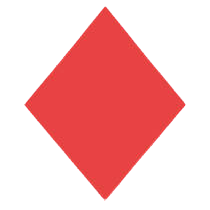
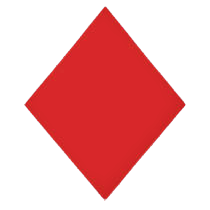
Some more UI changes

diff --git a/Pages/PageGame.xaml b/Pages/PageGame.xaml
@@ -68,7 +68,7 @@
         <Label Name="lblP3Betting3" Foreground="Black"   Width="150" HorizontalContentAlignment="Center" Canvas.Left="428" Canvas.Top="140" FontFamily="Arial" FontWeight="Bold" FontSize="50" Visibility="Hidden">7</Label>
         <Label Name="lblP3Betting2" Foreground="Black"   Width="150" HorizontalContentAlignment="Center" Canvas.Left="428" Canvas.Top="142" FontFamily="Arial" FontWeight="Bold" FontSize="50" Visibility="Hidden">7</Label>
         <Label Name="lblP3Betting1" Foreground="#33BCFF" Width="150" HorizontalContentAlignment="Center" Canvas.Left="427" Canvas.Top="141" FontFamily="Arial" FontWeight="Bold" FontSize="50" Visibility="Hidden">7</Label>
-                                                                                                                                                                                                 
+
         <Label Name="lblP4Betting5" Foreground="Black"   Width="150" HorizontalContentAlignment="Center" Canvas.Left="182" Canvas.Top="280" FontFamily="Arial" FontWeight="Bold" FontSize="50" Visibility="Hidden">7</Label>
         <Label Name="lblP4Betting4" Foreground="Black"   Width="150" HorizontalContentAlignment="Center" Canvas.Left="182" Canvas.Top="282" FontFamily="Arial" FontWeight="Bold" FontSize="50" Visibility="Hidden">7</Label>
         <Label Name="lblP4Betting3" Foreground="Black"   Width="150" HorizontalContentAlignment="Center" Canvas.Left="184" Canvas.Top="280" FontFamily="Arial" FontWeight="Bold" FontSize="50" Visibility="Hidden">7</Label>
@@ -93,14 +93,18 @@
         <Button Name="btnPass"   FontFamily="Arial" FontWeight="Bold" FontSize="50" Canvas.Left="560" Canvas.Top="364" Width="165" Height="70" Click="BtnPassClick">Pass</Button>
 
         <!-- Tarneeb Suit Label -->
-        <Label Foreground="Black"   Canvas.Left="32" Canvas.Top="58" FontFamily="Arial" FontWeight="Bold" FontSize="20" >Tarneeb</Label>
-        <Label Foreground="Black"   Canvas.Left="32" Canvas.Top="60" FontFamily="Arial" FontWeight="Bold" FontSize="20" >Tarneeb</Label>
-        <Label Foreground="Black"   Canvas.Left="34" Canvas.Top="58" FontFamily="Arial" FontWeight="Bold" FontSize="20" >Tarneeb</Label>
-        <Label Foreground="Black"   Canvas.Left="34" Canvas.Top="60" FontFamily="Arial" FontWeight="Bold" FontSize="20" >Tarneeb</Label>
-        <Label Foreground="#e8c133" Canvas.Left="33" Canvas.Top="59" FontFamily="Arial" FontWeight="Bold" FontSize="20" >Tarneeb</Label>
+        <Label Foreground="Black"   Canvas.Left="170" Canvas.Top="7" FontFamily="Arial" FontWeight="Bold" FontSize="16" >TARNEEB</Label>
+        <Label Foreground="Black"   Canvas.Left="170" Canvas.Top="9" FontFamily="Arial" FontWeight="Bold" FontSize="16" >TARNEEB</Label>
+        <Label Foreground="Black"   Canvas.Left="172" Canvas.Top="7" FontFamily="Arial" FontWeight="Bold" FontSize="16" >TARNEEB</Label>
+        <Label Foreground="Black"   Canvas.Left="172" Canvas.Top="9" FontFamily="Arial" FontWeight="Bold" FontSize="16" >TARNEEB</Label>
+        <Label Foreground="#e8c133" Canvas.Left="171" Canvas.Top="8" FontFamily="Arial" FontWeight="Bold" FontSize="16" >TARNEEB</Label>
 
         <!-- Tarneeb Suit Image -->
-        <Image Name="tarneebImage" Source="/Images/EmptyCard.png" Canvas.Left="50" Canvas.Top="97" Height="50" RenderOptions.BitmapScalingMode="HighQuality"/>
+        <Image Name="tarneebImage5" Source="/Images/EmptyCard.png" Canvas.Left="190" Canvas.Top="42" Height="50" RenderOptions.BitmapScalingMode="HighQuality"/>
+        <Image Name="tarneebImage4" Source="/Images/EmptyCard.png" Canvas.Left="190" Canvas.Top="40" Height="50" RenderOptions.BitmapScalingMode="HighQuality"/>
+        <Image Name="tarneebImage3" Source="/Images/EmptyCard.png" Canvas.Left="192" Canvas.Top="42" Height="50" RenderOptions.BitmapScalingMode="HighQuality"/>
+        <Image Name="tarneebImage2" Source="/Images/EmptyCard.png" Canvas.Left="192" Canvas.Top="40" Height="50" RenderOptions.BitmapScalingMode="HighQuality"/>
+        <Image Name="tarneebImage1" Source="/Images/EmptyCard.png" Canvas.Left="191" Canvas.Top="41" Height="50" RenderOptions.BitmapScalingMode="HighQuality"/>
 
         <!-- Played Cards -->
         <Image Name="playedCard1" Source="/Images/EmptyCard.png" Canvas.Left="460" Canvas.Top="368" Width="80" RenderOptions.BitmapScalingMode="HighQuality"/>
@@ -126,17 +130,42 @@
         <Image Name="p13" Source="/Images/EmptyCard.png" Canvas.Left="905" Canvas.Top="640" MouseDown="Card13MouseDown" />
 
         <!-- Tarneeb Selection -->
-        <Image Name="tc" Source="/Images/_CLUB.png" Canvas.Left="305" Canvas.Top="340" MouseDown="TarneebClubMouseDown" Height="60" Width="60" Visibility="Hidden"/>
-        <Image Name="td" Source="/Images/_DIAMOND.png" Canvas.Left="405" Canvas.Top="340" MouseDown="TarneebDiamondMouseDown" Height="60" Width="60" Visibility="Hidden"/>
-        <Image Name="th" Source="/Images/_HEART.png" Canvas.Left="505" Canvas.Top="340" MouseDown="TarneebHeartMouseDown" Height="60" Width="60" Visibility="Hidden"/>
-        <Image Name="ts" Source="/Images/_SPADE.png" Canvas.Left="605" Canvas.Top="340" MouseDown="TarneebSpadeMouseDown" Height="60" Width="60" Visibility="Hidden"/>
+        <Label Name="lblSelectTarneeb5" Foreground="Black"   Canvas.Left="370" Canvas.Top="280" FontFamily="Arial" FontWeight="Bold" FontSize="20" Visibility="Hidden" >SELECT YOUR TARNEEB</Label>
+        <Label Name="lblSelectTarneeb4" Foreground="Black"   Canvas.Left="370" Canvas.Top="282" FontFamily="Arial" FontWeight="Bold" FontSize="20" Visibility="Hidden" >SELECT YOUR TARNEEB</Label>
+        <Label Name="lblSelectTarneeb3" Foreground="Black"   Canvas.Left="372" Canvas.Top="280" FontFamily="Arial" FontWeight="Bold" FontSize="20" Visibility="Hidden" >SELECT YOUR TARNEEB</Label>
+        <Label Name="lblSelectTarneeb2" Foreground="Black"   Canvas.Left="372" Canvas.Top="282" FontFamily="Arial" FontWeight="Bold" FontSize="20" Visibility="Hidden" >SELECT YOUR TARNEEB</Label>
+        <Label Name="lblSelectTarneeb1" Foreground="#e8c133" Canvas.Left="371" Canvas.Top="281" FontFamily="Arial" FontWeight="Bold" FontSize="20" Visibility="Hidden" >SELECT YOUR TARNEEB</Label>
+
+        <Image Name="tc5" Source="/Images/_CLUB_B.png" Canvas.Left="304" Canvas.Top="339" Height="70" Visibility="Hidden"/>
+        <Image Name="tc4" Source="/Images/_CLUB_B.png" Canvas.Left="304" Canvas.Top="341" Height="70" Visibility="Hidden"/>
+        <Image Name="tc3" Source="/Images/_CLUB_B.png" Canvas.Left="306" Canvas.Top="339" Height="70" Visibility="Hidden"/>
+        <Image Name="tc2" Source="/Images/_CLUB_B.png" Canvas.Left="306" Canvas.Top="341" Height="70" Visibility="Hidden"/>
+        <Image Name="tc1" Source="/Images/_CLUB.png"   Canvas.Left="305" Canvas.Top="340" Height="70" Visibility="Hidden" MouseDown="TarneebClubMouseDown" />
+
+        <Image Name="td5" Source="/Images/_DIAMOND_B.png" Canvas.Left="404" Canvas.Top="339" Height="70" Visibility="Hidden"/>
+        <Image Name="td4" Source="/Images/_DIAMOND_B.png" Canvas.Left="404" Canvas.Top="341" Height="70" Visibility="Hidden"/>
+        <Image Name="td3" Source="/Images/_DIAMOND_B.png" Canvas.Left="406" Canvas.Top="339" Height="70" Visibility="Hidden"/>
+        <Image Name="td2" Source="/Images/_DIAMOND_B.png" Canvas.Left="406" Canvas.Top="341" Height="70" Visibility="Hidden"/>
+        <Image Name="td1" Source="/Images/_DIAMOND.png"   Canvas.Left="405" Canvas.Top="340" Height="70" Visibility="Hidden" MouseDown="TarneebDiamondMouseDown" />
+
+        <Image Name="th5" Source="/Images/_HEART_B.png" Canvas.Left="504" Canvas.Top="339" Height="70" Visibility="Hidden"/>
+        <Image Name="th4" Source="/Images/_HEART_B.png" Canvas.Left="504" Canvas.Top="341" Height="70" Visibility="Hidden"/>
+        <Image Name="th3" Source="/Images/_HEART_B.png" Canvas.Left="506" Canvas.Top="339" Height="70" Visibility="Hidden"/>
+        <Image Name="th2" Source="/Images/_HEART_B.png" Canvas.Left="506" Canvas.Top="341" Height="70" Visibility="Hidden"/>
+        <Image Name="th1" Source="/Images/_HEART.png"   Canvas.Left="505" Canvas.Top="340" Height="70" Visibility="Hidden" MouseDown="TarneebHeartMouseDown" />
+
+        <Image Name="ts5" Source="/Images/_SPADE_B.png" Canvas.Left="604" Canvas.Top="339" Height="70" Visibility="Hidden"/>
+        <Image Name="ts4" Source="/Images/_SPADE_B.png" Canvas.Left="604" Canvas.Top="341" Height="70" Visibility="Hidden"/>
+        <Image Name="ts3" Source="/Images/_SPADE_B.png" Canvas.Left="606" Canvas.Top="339" Height="70" Visibility="Hidden"/>
+        <Image Name="ts2" Source="/Images/_SPADE_B.png" Canvas.Left="606" Canvas.Top="341" Height="70" Visibility="Hidden"/>
+        <Image Name="ts1" Source="/Images/_SPADE.png"   Canvas.Left="605" Canvas.Top="340" Height="70" Visibility="Hidden" MouseDown="TarneebSpadeMouseDown" />
 
         <!-- Back to menu button -->
         <Button Name="btnStatsBack" Content="&lt; Main Menu" Height="35" Width="130" FontSize="16" Background="PowderBlue"
                 Canvas.Left="10" Canvas.Top="10" Click="BtnGameBackClick"></Button>
 
         <!-- Next Round button & Label-->
-        <Label Name="lblWinner" Foreground="#33BCFF" FontWeight="Bold" FontSize="16" Canvas.Left="444" Canvas.Top="270"></Label>
+        <Label Name="lblWinner" Foreground="#33BCFF" FontWeight="Bold" FontSize="16" Canvas.Left="440" Canvas.Top="298"></Label>
         <Button Name="btnNextRound" IsDefault="True" Content="Next Round" Height="35" Width="110" FontSize="16" Background="#3db85d"
                 Canvas.Left="447" Canvas.Top="310" Visibility="Hidden" IsEnabled="False" Click="BtnNextRoundClick"></Button>
 

diff --git a/Pages/PageGame.xaml.cs b/Pages/PageGame.xaml.cs
@@ -160,7 +160,11 @@ namespace OOP4200_Tarneeb
 
             // Reset the Tarneeb
             tarneebPlayed = false;
-            tarneebImage.Source = null;
+            tarneebImage1.Source = null;
+            tarneebImage2.Source = null;
+            tarneebImage3.Source = null;
+            tarneebImage4.Source = null;
+            tarneebImage5.Source = null;
 
             // Reset the bet label
             lblBet1.Visibility = Visibility.Hidden;
@@ -332,10 +336,7 @@ namespace OOP4200_Tarneeb
                 winner = bettingPlayer;
 
                 HideBettingButtons();
-                tc.Visibility = Visibility.Visible;
-                td.Visibility = Visibility.Visible;
-                th.Visibility = Visibility.Visible;
-                ts.Visibility = Visibility.Visible;
+                ShowTarneebSelection();
             }
             else
             {
@@ -780,37 +781,107 @@ namespace OOP4200_Tarneeb
 
         #region Tarneeb Selection
 
+        /// <summary>
+        /// Hides all of the Tarneeb selection images
+        /// </summary>
+        private void HideTarneebSelection()
+        {
+            // Hide Tarneeb Labels
+            lblSelectTarneeb1.Visibility = Visibility.Hidden;
+            lblSelectTarneeb2.Visibility = Visibility.Hidden;
+            lblSelectTarneeb3.Visibility = Visibility.Hidden;
+            lblSelectTarneeb4.Visibility = Visibility.Hidden;
+            lblSelectTarneeb5.Visibility = Visibility.Hidden;
+
+            // Hide Clubs
+            tc1.Visibility = Visibility.Hidden;
+            tc2.Visibility = Visibility.Hidden;
+            tc3.Visibility = Visibility.Hidden;
+            tc4.Visibility = Visibility.Hidden;
+            tc5.Visibility = Visibility.Hidden;
+
+            // Hide Diamonds
+            td1.Visibility = Visibility.Hidden;
+            td2.Visibility = Visibility.Hidden;
+            td3.Visibility = Visibility.Hidden;
+            td4.Visibility = Visibility.Hidden;
+            td5.Visibility = Visibility.Hidden;
+
+            // Hide Hearts
+            th1.Visibility = Visibility.Hidden;
+            th2.Visibility = Visibility.Hidden;
+            th3.Visibility = Visibility.Hidden;
+            th4.Visibility = Visibility.Hidden;
+            th5.Visibility = Visibility.Hidden;
+
+            // Hide Spades
+            ts1.Visibility = Visibility.Hidden;
+            ts2.Visibility = Visibility.Hidden;
+            ts3.Visibility = Visibility.Hidden;
+            ts4.Visibility = Visibility.Hidden;
+            ts5.Visibility = Visibility.Hidden;
+        }
+
+        /// <summary>
+        /// Shows all of the Tarneeb selection images
+        /// </summary>
+        private void ShowTarneebSelection()
+        {
+            // Show Tarneeb Labels
+            lblSelectTarneeb1.Visibility = Visibility.Visible;
+            lblSelectTarneeb2.Visibility = Visibility.Visible;
+            lblSelectTarneeb3.Visibility = Visibility.Visible;
+            lblSelectTarneeb4.Visibility = Visibility.Visible;
+            lblSelectTarneeb5.Visibility = Visibility.Visible;
+
+            // Show Clubs
+            tc1.Visibility = Visibility.Visible;
+            tc2.Visibility = Visibility.Visible;
+            tc3.Visibility = Visibility.Visible;
+            tc4.Visibility = Visibility.Visible;
+            tc5.Visibility = Visibility.Visible;
+
+            // Show Diamonds
+            td1.Visibility = Visibility.Visible;
+            td2.Visibility = Visibility.Visible;
+            td3.Visibility = Visibility.Visible;
+            td4.Visibility = Visibility.Visible;
+            td5.Visibility = Visibility.Visible;
+
+            // Show Hearts
+            th1.Visibility = Visibility.Visible;
+            th2.Visibility = Visibility.Visible;
+            th3.Visibility = Visibility.Visible;
+            th4.Visibility = Visibility.Visible;
+            th5.Visibility = Visibility.Visible;
+
+            // Show Spades
+            ts1.Visibility = Visibility.Visible;
+            ts2.Visibility = Visibility.Visible;
+            ts3.Visibility = Visibility.Visible;
+            ts4.Visibility = Visibility.Visible;
+            ts5.Visibility = Visibility.Visible;
+        }
+
         private void TarneebClubMouseDown(object sender, MouseButtonEventArgs e)
         {
             SetTarneeb(Enums.Suit.CLUB);
-            tc.Visibility = Visibility.Hidden;
-            td.Visibility = Visibility.Hidden;
-            th.Visibility = Visibility.Hidden;
-            ts.Visibility = Visibility.Hidden;
+            HideTarneebSelection();
         }
         private void TarneebDiamondMouseDown(object sender, MouseButtonEventArgs e)
         {
             SetTarneeb(Enums.Suit.DIAMOND);
-            tc.Visibility = Visibility.Hidden;
-            td.Visibility = Visibility.Hidden;
-            th.Visibility = Visibility.Hidden;
-            ts.Visibility = Visibility.Hidden;
+            HideTarneebSelection();
         }
         private void TarneebHeartMouseDown(object sender, MouseButtonEventArgs e)
         {
             SetTarneeb(Enums.Suit.HEART);
-            tc.Visibility = Visibility.Hidden;
-            td.Visibility = Visibility.Hidden;
-            th.Visibility = Visibility.Hidden;
-            ts.Visibility = Visibility.Hidden;
+            HideTarneebSelection();
         }
         private void TarneebSpadeMouseDown(object sender, MouseButtonEventArgs e)
         {
             SetTarneeb(Enums.Suit.SPADE);
-            tc.Visibility = Visibility.Hidden;
-            td.Visibility = Visibility.Hidden;
-            th.Visibility = Visibility.Hidden;
-            ts.Visibility = Visibility.Hidden;
+            HideTarneebSelection();
         }
 
         /// <summary>
@@ -823,7 +894,11 @@ namespace OOP4200_Tarneeb
             if (!tarneebPlayed)
             {
                 tarneeb = suit;
-                tarneebImage.Source = (ImageSource)new ImageSourceConverter().ConvertFrom(@"../../../Images/_" + suit + ".png");
+                tarneebImage1.Source = (ImageSource)new ImageSourceConverter().ConvertFrom(@"../../../Images/_" + suit + ".png");
+                tarneebImage2.Source = (ImageSource)new ImageSourceConverter().ConvertFrom(@"../../../Images/_" + suit + "_B.png");
+                tarneebImage3.Source = (ImageSource)new ImageSourceConverter().ConvertFrom(@"../../../Images/_" + suit + "_B.png");
+                tarneebImage4.Source = (ImageSource)new ImageSourceConverter().ConvertFrom(@"../../../Images/_" + suit + "_B.png");
+                tarneebImage5.Source = (ImageSource)new ImageSourceConverter().ConvertFrom(@"../../../Images/_" + suit + "_B.png");
                 tarneebPlayed = true;
             }
         }
